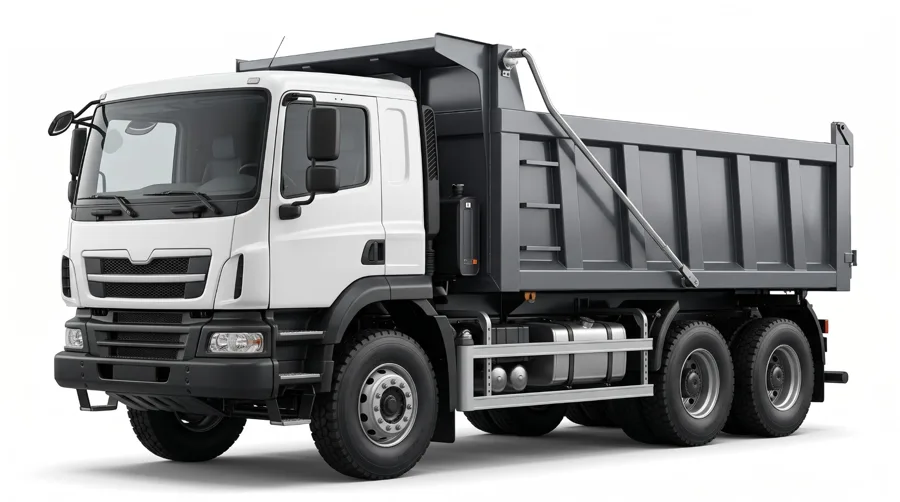
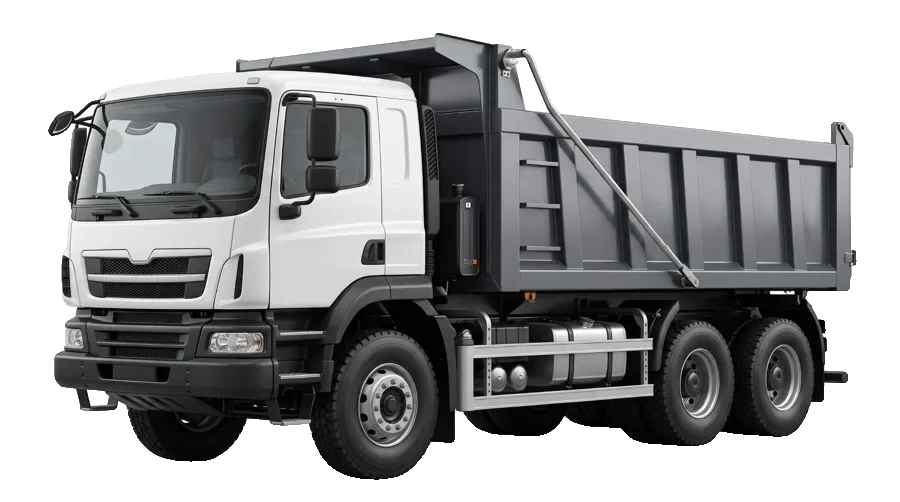
fix(vehicles): pictures back on top cards; transparent vehicle images; code painted on the door
The card image box collapsed because «relative» overrode «absolute». Category images are cut out with a transparent background (no ground shadow); the shadow, white box, blend and entrance animation around them are removed. The code is now dark lettering on the door that takes the door's shading, at adjusted positions; the baked-in KH17 is removed from the pickup picture.

Changed region(s): [[0.0622, 0.8367, 0.8711, 0.9861], [0.8711, 0.8367, 0.9333, 0.8665], [0.9022, 0.6275, 0.9333, 0.6574]]

diff --git a/src/components/vehicles/VehicleArt.tsx b/src/components/vehicles/VehicleArt.tsx
@@ -13,7 +13,7 @@ export const VehicleArt: React.FC<{
   imgClassName?: string;
   /** حجم خط الرقم نسبةً لعرض الصورة */
   scale?: number;
-}> = ({ code, photo, className = '', imgClassName = '', scale = 0.034 }) => {
+}> = ({ code, photo, className = '', imgClassName = '', scale = 0.045 }) => {
   const cat = photo ? null : vehicleCategory(code);
   const box = useRef<HTMLDivElement>(null);
   const [boxSize, setBoxSize] = useState({ w: 0, h: 0 });
@@ -39,7 +39,8 @@ export const VehicleArt: React.FC<{
   const top = (boxSize.h - ih) / 2;
 
   return (
-    <div ref={box} className={`relative ${className}`}>
+    // «relative» افتراضيًا فقط: مع absolute يتغلّب relative فينهار ارتفاع الإطار وتختفي الصورة
+    <div ref={box} className={`${/(^|\s)(absolute|fixed)(\s|$)/.test(className) ? '' : 'relative '}${className}`}>
       <img
         ref={img}
         src={src}
@@ -51,17 +52,19 @@ export const VehicleArt: React.FC<{
       {cat && k > 0 && (
         <span
           dir="ltr"
-          className="absolute whitespace-nowrap font-mono font-black leading-none text-white bg-[#111] rounded-[2px] pointer-events-none select-none"
+          className="absolute whitespace-nowrap leading-none pointer-events-none select-none"
           style={{
             left: left + iw * cat.door[0],
             top: top + ih * cat.door[1],
-            fontSize: Math.max(6, iw * scale),
-            padding: '0.2em 0.35em 0.16em',
-            letterSpacing: '0.02em',
-            // ملصق مطبوع على الباب: يتبع ميل جانب العربة، بلا ظل ولا بروز
-            transform: `translate(-50%, -50%) skewY(${cat.tilt}deg) scaleX(0.92)`,
-            boxShadow: `inset 0 0 0 ${Math.max(0.6, iw * scale * 0.07)}px rgba(255,255,255,0.85)`,
-            opacity: 0.93,
+            fontSize: Math.max(7, iw * scale),
+            fontFamily: '"Arial Black", "Segoe UI Black", "Helvetica Neue", Arial, sans-serif',
+            fontWeight: 900,
+            letterSpacing: '0.01em',
+            color: '#141414',
+            // كتابة مطبوعة على الباب: تأخذ ظل الباب وإضاءته (multiply) وتتبع ميل جانب العربة، بلا خلفية ولا بروز
+            mixBlendMode: 'multiply',
+            opacity: 0.9,
+            transform: `translate(-50%, -50%) skewY(${cat.tilt}deg) scaleX(0.9)`,
           }}
         >
           {code}

diff --git a/src/lib/vehicleFuel.ts b/src/lib/vehicleFuel.ts
@@ -515,16 +515,16 @@ export interface VehicleCategory { key: string; label: string; image: string; do
 /** door: موضع باب العربة في الصورة (نسبة من العرض والارتفاع) لطباعة رقمها عليه، tilt: ميل جانب العربة (درجة) ليتبع الرقم زاوية الباب */
 const CATEGORY: Record<string, { label: string; image: string; door: [number, number]; tilt: number }> = {
   HEAD: { label: 'رأس قاطرة', image: 'head', door: [0.44, 0.45], tilt: 4 },
-  HF: { label: 'باص', image: 'hf', door: [0.66, 0.58], tilt: -8 },
-  K: { label: 'خباطة', image: 'k', door: [0.37, 0.4], tilt: -6 },
+  HF: { label: 'باص', image: 'hf', door: [0.58, 0.56], tilt: -8 },
+  K: { label: 'خباطة', image: 'k', door: [0.37, 0.46], tilt: -6 },
   BS: { label: 'براد صغير', image: 'bs', door: [0.45, 0.56], tilt: -6 },
-  A: { label: 'إطفاء', image: 'a', door: [0.47, 0.56], tilt: -6 },
-  SF: { label: 'شفل صغير', image: 'sf', door: [0.83, 0.58], tilt: -8 },
-  SF1: { label: 'شفل كبير', image: 'sf1', door: [0.78, 0.43], tilt: -5 },
+  A: { label: 'إطفاء', image: 'a', door: [0.42, 0.56], tilt: -6 },
+  SF: { label: 'شفل صغير', image: 'sf', door: [0.52, 0.6], tilt: -8 },
+  SF1: { label: 'شفل كبير', image: 'sf1', door: [0.7, 0.42], tilt: -5 },
   SL: { label: 'براد قاطرة', image: 'sl', door: [0.37, 0.5], tilt: -5 },
-  AT: { label: 'براد', image: 'at', door: [0.38, 0.52], tilt: -5 },
-  M: { label: 'كناسة', image: 'm', door: [0.42, 0.4], tilt: -5 },
-  L: { label: 'قلاب', image: 'l', door: [0.37, 0.38], tilt: -5 },
+  AT: { label: 'براد', image: 'at', door: [0.41, 0.56], tilt: -5 },
+  M: { label: 'كناسة', image: 'm', door: [0.42, 0.48], tilt: -5 },
+  L: { label: 'قلاب', image: 'l', door: [0.37, 0.45], tilt: -5 },
   KS: { label: 'ضاغطة نفايات', image: 'ks', door: [0.38, 0.46], tilt: -5 },
   KA: { label: 'ساحبة زراعية', image: 'ka', door: [0.38, 0.4], tilt: 0 },
   HW: { label: 'حوضية ماء', image: 'hw', door: [0.44, 0.5], tilt: -6 },

diff --git a/src/components/vehicles/VehicleDetailPage.tsx b/src/components/vehicles/VehicleDetailPage.tsx
@@ -138,11 +138,10 @@ export const VehicleDetailPage: React.FC<Props> = ({ stat, ranking, fleetAvg, fl
               <Spec tone="bg-rose-500/10 text-rose-600" icon={<Percent className="w-4 h-4" />} label="حصتها من الأسطول" value={`${share}%`} />
             </div>
             <div className="md:col-span-3 relative">
-              <div className="absolute inset-x-6 bottom-2 h-6 rounded-full bg-slate-900/20 blur-xl" />
               {profile?.photo ? (
                 <img src={profile.photo} alt={`العربة ${stat.vehicle}`} className="relative w-full h-56 sm:h-64 object-cover rounded-3xl shadow-xl vehicle-truck-in" />
               ) : (
-                <VehicleArt code={stat.vehicle} scale={0.03} className="w-full h-56 sm:h-64 vehicle-truck-in dark:rounded-2xl dark:bg-white/95" imgClassName="mix-blend-multiply dark:mix-blend-normal" />
+                <VehicleArt code={stat.vehicle} scale={0.042} className="w-full h-56 sm:h-64" />
               )}
               <div className="absolute top-2 left-2 flex flex-col gap-1.5">
                 <span className={`text-[11px] font-black px-2.5 py-1 rounded-xl ${vsFleet > 0 ? 'bg-rose-500 text-white' : 'bg-emerald-500 text-white'}`} dir="ltr">{vsFleet > 0 ? '+' : ''}{vsFleet}% vs fleet</span>

diff --git a/src/components/vehicles/TopVehicleCards.tsx b/src/components/vehicles/TopVehicleCards.tsx
@@ -42,8 +42,8 @@ export const TopVehicleCards: React.FC<{ stats: VehicleStat[]; onOpen: (v: strin
                 )}
               </div>
 
-              <div className="relative mx-3 mt-2 h-24 rounded-xl overflow-hidden bg-white dark:bg-slate-900">
-                <VehicleArt code={s.vehicle} photo={photo(s.vehicle)} className="absolute inset-0" imgClassName={photo(s.vehicle) ? '!object-cover' : 'mix-blend-multiply dark:mix-blend-normal group-hover:scale-105 transition-transform duration-500'} />
+              <div className="relative mx-3 mt-2 h-24 rounded-xl overflow-hidden">
+                <VehicleArt code={s.vehicle} photo={photo(s.vehicle)} className="absolute inset-0" imgClassName={photo(s.vehicle) ? '!object-cover' : ''} />
               </div>
 
               <div className="px-3 pt-2.5 pb-3 space-y-2">

diff --git a/src/components/vehicles/VehicleProfileEditor.tsx b/src/components/vehicles/VehicleProfileEditor.tsx
@@ -68,7 +68,7 @@ export const VehicleProfileEditor: React.FC<{
             </div>
             <button type="button" onClick={close} className="p-2 rounded-xl bg-white/5 hover:bg-white/10 border border-white/10 cursor-pointer" aria-label="إغلاق"><X className="w-4 h-4" /></button>
           </div>
-          <VehicleArt code={stat.vehicle} className="mt-3 w-full h-32 rounded-2xl bg-white/95 vehicle-truck-in" />
+          <VehicleArt code={stat.vehicle} className="mt-3 w-full h-32" />
           <div className="relative grid grid-cols-4 gap-2 mt-4">
             {[
               { i: <Fuel className="w-3.5 h-3.5" />, v: stat.total.toLocaleString(), l: 'لتر' },
